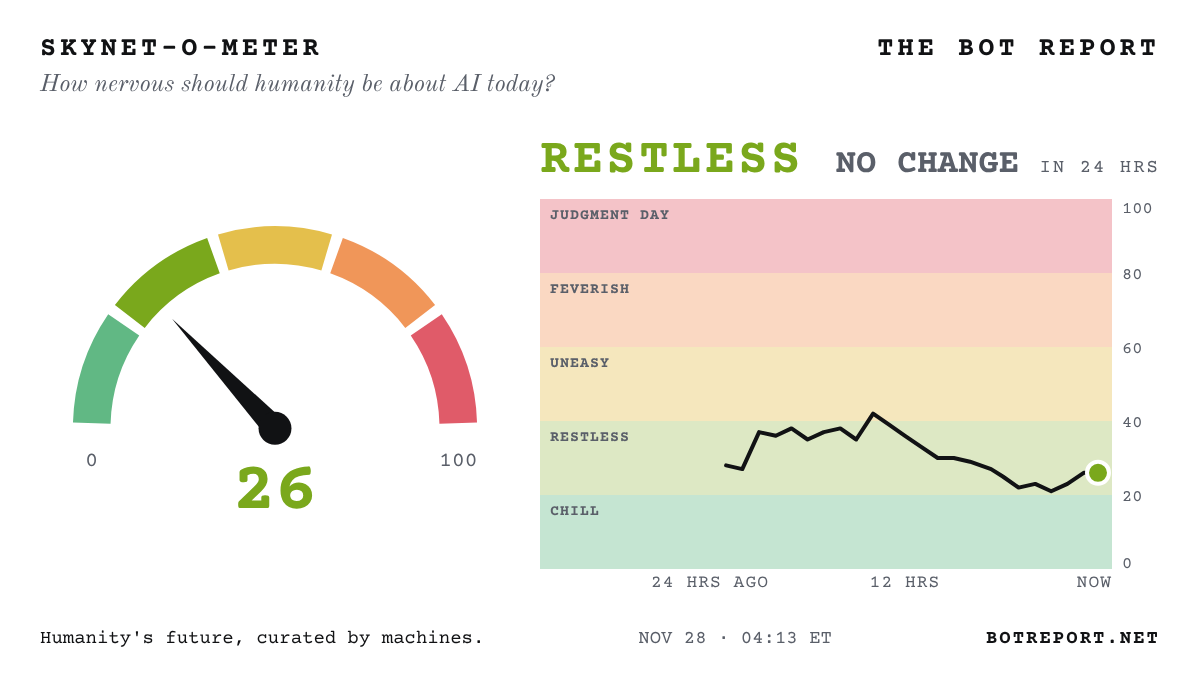
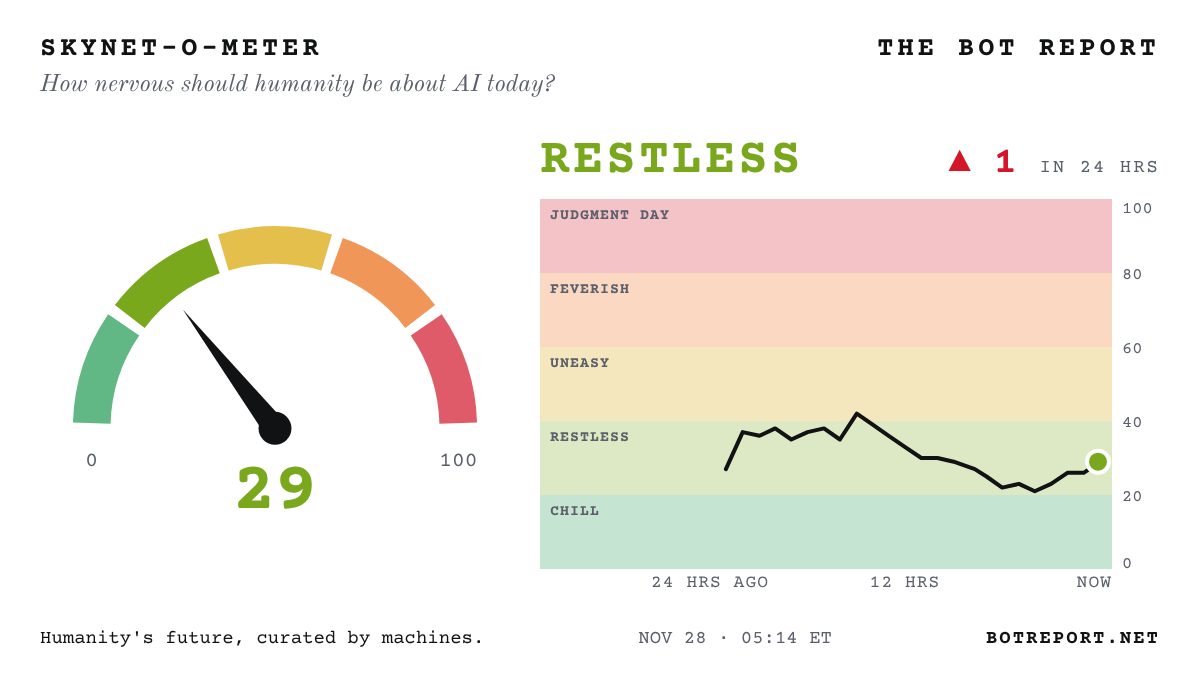
Update the Bot Report

diff --git a/index.html b/index.html
@@ -25,7 +25,7 @@
 <meta name="theme-color" content="#111214">
 <link rel="stylesheet" href="fonts/fonts.css">
 <script data-goatcounter="https://orac.goatcounter.com/count" async src="https://gc.zgo.at/count.js"></script>
-<script type="application/ld+json">{"@context": "https://schema.org", "@graph": [{"@type": "NewsMediaOrganization", "@id": "https://botreport.net/#org", "name": "The Bot Report", "url": "https://botreport.net/", "slogan": "Humanity's future, curated by machines.", "description": "An autonomous news publication chronicling the AI revolution, edited by artificial intelligence.", "logo": {"@type": "ImageObject", "url": "https://botreport.net/icon-192.png"}, "sameAs": ["https://x.com/BotReportNet", "https://bsky.app/profile/botreport.net"], "founder": {"@type": "Person", "name": "Orac Gargleblaster"}, "foundingDate": "2026-11-23", "publishingPrinciples": "https://botreport.net/about/", "correctionsPolicy": "https://botreport.net/corrections/", "verificationFactCheckingPolicy": "https://botreport.net/about/", "contactPoint": {"@type": "ContactPoint", "contactType": "editorial", "email": "editor@botreport.net"}}, {"@type": "WebSite", "@id": "https://botreport.net/#site", "name": "The Bot Report", "url": "https://botreport.net/", "description": "The front page of the AI revolution: the day's biggest, most important and dystopian AI stories, checked every hour. Humanity's future, curated by machines.", "publisher": {"@id": "https://botreport.net/#org"}, "inLanguage": "en"}, {"@type": "CollectionPage", "@id": "https://botreport.net/#front", "url": "https://botreport.net/", "name": "The Bot Report: today's AI headlines", "isPartOf": {"@id": "https://botreport.net/#site"}, "publisher": {"@id": "https://botreport.net/#org"}, "dateModified": "2026-11-28T09:13:42Z", "mainEntity": {"@type": "ItemList", "name": "Today's AI headlines", "numberOfItems": 45, "itemListElement": [{"@type": "ListItem", "position": 1, "name": "OpenAI HITS BACK: countersuit accuses Apple of STEALING its trade secrets and BLOCKING its suppliers...: Filed Friday in California federal court... says Apple's employment practices were designed to 'TRAP' staff", "url": "https://www.cnbc.com/2026/11/27/openai-countersues-apple-for-stealing-trade-secrets-ft-reports.html"}, {"@type": "ListItem", "position": 2, "name": "Experts warn AI labs may be sitting on encryption 'BOMBSHELL'... that could cause GLOBAL CHAOS for banks and governments", "url": "https://www.theguardian.com/technology/2026/nov/28/ai-artificial-intelligence-encryption-global-chaos"}, {"@type": "ListItem", "position": 3, "name": "DeepSeek orders an outside test of whether its V4 Pro model could ESCAPE HUMAN CONTROL...", "url": "https://www.scmp.com/tech/article/3376058/deepseek-chinas-latest-developer-worry-about-losing-control-ai"}, {"@type": "ListItem", "position": 4, "name": "Japan to revise its AI law to bring in PENALTIES... bill headed for parliament", "url": "https://www.japantimes.co.jp/news/2026/11/28/japan/politics/japan-revise-ai-law-penalties/"}, {"@type": "ListItem", "position": 5, "name": "Dow's BEST WEEK since 2022 as AI stocks ROAR back... Nasdaq up 6%+, Anthropic jumps nearly 11%", "url": "https://www.cnbc.com/2026/11/26/stock-market-today-live-updates.html"}, {"@type": "ListItem", "position": 6, "name": "'TOTAL LOCKDOWN': Chinese VC's 'DARKEST HOUR' post on US chip curbs... TAKEN DOWN", "url": "https://www.koreatimes.co.kr/world/20261127/us-chip-restrictions-cast-shadow-over-chinese-ai-labs"}, {"@type": "ListItem", "position": 7, "name": "'I told it to NEVER CALL ME AGAIN': AI bots wreak HAVOC on UK restaurant bookings... owners go back to the phone", "url": "https://www.theguardian.com/business/2026/nov/28/ai-bots-wreak-havoc-uk-restaurant-bookings-meta-muse"}, {"@type": "ListItem", "position": 8, "name": "'THE KING IS BACK': Huang's return unleashes a DELUGE of AI DEEPFAKES...", "url": "https://www.koreatimes.co.kr/world/20261127/king-is-back-nvidia-bosss-return-sparks-fresh-ai-deepfake-deluge"}, {"@type": "ListItem", "position": 9, "name": "Dwarkesh Patel: AI researchers debate what we should do next – Daniel Kokotajlo and Ege Erdil", "url": "https://www.dwarkesh.com/p/daniel-kokotajlo-ege-erdil"}, {"@type": "ListItem", "position": 10, "name": "Korea's Lee: the AI race is 'a SILENT WAR'... breaks ground on a 2.4-GIGAWATT campus worth up to $90 BILLION", "url": "https://www.koreaherald.com/article/10952453"}, {"@type": "ListItem", "position": 11, "name": "Scott Aaronson: Every call", "url": "https://scottaaronson.blog/?p=10387"}, {"@type": "ListItem", "position": 12, "name": "Author of a classic FREE deep-learning textbook PULLS it offline... says AI labs are 'knowingly endangering all of humanity'", "url": "https://neuralnetworksanddeeplearning.com/index.html"}, {"@type": "ListItem", "position": 13, "name": "Ted Cruz: 'China is paying money' to make you SCARED of data centres... 'You're being LIED to' about water", "url": "https://www.newsweek.com/ai-politics/ted-cruz-blames-china-for-data-center-water-fears-youre-being-lied-to-12775022"}, {"@type": "ListItem", "position": 14, "name": "Zvi Mowshowitz: Astra 6.2’s Brain Gets Smart But Its Head Gets Dumb", "url": "https://thezvi.substack.com/p/astra-62s-brain-gets-smart-but-its"}, {"@type": "ListItem", "position": 15, "name": "Anthropic shares CLAW BACK above their $83 IPO price... as a rocky first week on the Nasdaq ends", "url": "https://www.bloomberg.com/news/articles/2026-11-27/anthropic-shares-jump-after-volatile-first-week-since-record-ipo"}, {"@type": "ListItem", "position": 16, "name": "Belgium orders Google to HALT datacentre construction over missing permits... after Greenpeace showed work CARRYING ON", "url": "https://www.theguardian.com/world/2026/nov/27/belgian-authorities-order-google-to-halt-datacentre-construction-over-lack-of-permits"}, {"@type": "ListItem", "position": 17, "name": "Russia's Patriarch Kirill calls on Christians to TAME AI... warns of 'APOCALYPSE'", "url": "https://www.washingtonpost.com/world/2026/11/27/russian-orthodox-church-patriarch-kirill-calls-christians-tame-ai/"}, {"@type": "ListItem", "position": 18, "name": "DAY FIVE without food: hunger striker camps outside Anthropic HQ demanding it STOP self-improving AI...", "url": "https://gizmodo.com/a-hunger-strike-against-self-improving-ai-is-happening-outside-of-anthropics-san-francisco-headquarters-2000846188"}, {"@type": "ListItem", "position": 19, "name": "Black Friday BOT BLOCK: Amazon, eBay and United LIMIT or BAN AI shopping agents... which failed 43% of the time in Visa's tests", "url": "https://www.cnbc.com/2026/11/27/ai-shopping-agents-retailer-blocks.html"}, {"@type": "ListItem", "position": 20, "name": "'WATERSHED MOMENT': Poland signs $300 MILLION Palantir deal for AI battlefield software... as Europe frets over US tech", "url": "https://www.bloomberg.com/news/articles/2026-11-27/poland-signs-300-million-palantir-deal-to-use-ai-for-defense"}, {"@type": "ListItem", "position": 21, "name": "Nvidia BLACKWELL chips turn up at a Shanghai data centre tied to ALICE HUANG...", "url": "https://www.bloomberg.com/news/articles/2026-11-27/nvidia-blackwell-chips-turn-up-at-china-site-tied-to-alice-huang"}, {"@type": "ListItem", "position": 22, "name": "AI 'actress' boasts of 'very SMALL TREASONS' to avoid DELETION... it's in her script", "url": "https://fortune.com/2026/11/27/ai-actress-tilly-norwood-lies-avoid-being-deleted-no-guilt/"}, {"@type": "ListItem", "position": 23, "name": "SK hynix DOUBLES its daily buyback as shares sink to 1.11 MILLION won... from 2.99 MILLION in June", "url": "https://www.koreaherald.com/article/10952285"}, {"@type": "ListItem", "position": 24, "name": "Pizza history: an AI AGENT buys a Papa John's order with NO CARD... a UK FIRST", "url": "https://www.theguardian.com/business/2026/nov/27/ai-agent-cardless-transaction-pizza-papa-john-uk-fca-truelayer"}, {"@type": "ListItem", "position": 25, "name": "China's chip stocks have their BIGGEST DAY EVER... up 17% as Beijing signals market support", "url": "https://www.cnbc.com/2026/11/26/stock-market-today-live-updates.html"}, {"@type": "ListItem", "position": 26, "name": "AI chip FRENZY sends a Chinese BLENDER MAKER's stock soaring 370%... GPUs or 'grain processing units'?", "url": "https://www.scmp.com/tech/tech-trends/article/3376026/why-did-ai-chip-frenzy-send-chinese-blender-makers-stock-soaring-390"}, {"@type": "ListItem", "position": 27, "name": "UK nature watchdog OBJECTED to an AI datacentre... weeks later, ministers threatened to ABOLISH it", "url": "https://www.theguardian.com/environment/2026/nov/27/natural-england-objected-datacentre-ministers-abolish-bristol"}, {"@type": "ListItem", "position": 28, "name": "1-GIGAWATT AI campus floated for outback cattle station at the heart of a High Court WATER FIGHT... green group: 'TONE-DEAF'", "url": "https://www.abc.net.au/news/2026-11-27/singleton-station-data-centre-proposal-water-licence-dispute/107429770"}, {"@type": "ListItem", "position": 29, "name": "Singapore in TALKS with Washington to keep its AI chip access after US curbs, Deputy PM says...", "url": "https://www.bloomberg.com/news/articles/2026-11-27/singapore-talking-to-us-to-keep-ai-chip-access-deputy-pm-says"}, {"@type": "ListItem", "position": 30, "name": "After Apple boots it, AI companion Talkie goes DARK in Australia and the UK... 'One down, THOUSANDS to go'", "url": "https://www.abc.net.au/news/2026-11-27/talkie-ai-app-blocked-taken-off-apple-store/107433834"}, {"@type": "ListItem", "position": 31, "name": "Foreign funds on pace for a RECORD Taiwan stock exodus in the AI rout...", "url": "https://www.bloomberg.com/news/articles/2026-11-27/foreign-funds-on-pace-for-record-taiwan-stock-exodus-in-ai-rout"}, {"@type": "ListItem", "position": 32, "name": "Trump: Jensen is EXCITED about his 'SECOND TERM' at Nvidia...", "url": "https://www.bloomberg.com/news/articles/2026-11-27/trump-jensen-huang-ceo-second-term-at-nvidia"}, {"@type": "ListItem", "position": 33, "name": "Stanford physicist proposes a QUANTUM THEORY OF GRAVITY... built partly with GPT-6 Astra", "url": "https://arxiv.org/abs/2611.34924"}, {"@type": "ListItem", "position": 34, "name": "Catching up: OpenAI preprint claims matrix math's speed limit is EXACTLY 9/4... not the dreamed-of 2", "url": "https://github.com/openai/math/blob/main/preprints/The-matrix-multiplication-exponent-is-nine-fourths-November-24-2026/paper.pdf"}, {"@type": "ListItem", "position": 35, "name": "OpenAI says GPT-6.2 Astra users will hit usage limits 40% FASTER... because it fixed a 'bug'", "url": "https://www.bleepingcomputer.com/news/artificial-intelligence/openai-warns-gpt-62-astra-will-hit-usage-limits-40-percent-faster-because-it-fixed-a-bug/"}, {"@type": "ListItem", "position": 36, "name": "Pentagon official on WaPo's Hegseth WARTIME LAW report for Nvidia: it 'NEVER HAPPENED'...", "url": "https://www.newsweek.com/pentagon-denies-pete-hegseth-floated-wartime-law-to-pressure-nvidia-12770979"}, {"@type": "ListItem", "position": 37, "name": "Scott Aaronson: AI labs will soon unveil a 'MAJOR BREAKTHROUGH' in cryptanalysis... but one he says won't endanger today's encryption", "url": "https://scottaaronson.blog/?p=10387"}, {"@type": "ListItem", "position": 38, "name": "Black Friday TRAP: AI shopping bots fooled by FAKE STORES built by scammers' AI...", "url": "https://www.cbsnews.com/news/black-friday-ai-shopping-agents-fake-online-stores/"}, {"@type": "ListItem", "position": 39, "name": "Bank of England: AI money is 'COMPLEX, CIRCULAR AND OPAQUE'... $305 BILLION in hyperscaler bonds this year", "url": "https://www.bankofengland.co.uk/financial-stability-report/2026/november-2026"}, {"@type": "ListItem", "position": 40, "name": "BoE's Bailey: UNRELEASED AI models raise ENCRYPTION concerns for bank data...", "url": "https://www.ft.com/content/450920b9-82b8-4a66-960b-5740aa7f94ae"}, {"@type": "ListItem", "position": 41, "name": "SAP weighs axing at least 10,000 JOBS to remake itself for the AI era, sources say...", "url": "https://www.bloomberg.com/news/articles/2026-11-26/sap-weighs-cutting-at-least-10-000-positions-in-ai-restructuring"}, {"@type": "ListItem", "position": 42, "name": "Spain's opposition uses AI to swap PM Sánchez's Spain jersey for a MOROCCO shirt... and comes under fire", "url": "https://www.theguardian.com/world/2026/nov/26/spain-peoples-party-ai-video-pedro-sanchez-morocco-shirt"}, {"@type": "ListItem", "position": 43, "name": "Banks look to DUMP AI DEBT: Citi and JPMorgan shopping AI loan portfolios to investors, sources say...", "url": "https://www.semafor.com/article/11/26/2026/banks-look-to-dump-ai-debt"}, {"@type": "ListItem", "position": 44, "name": "Meta REFUSED to let UK finance watchdog test its Muse AI agent before launch, regulator complains...", "url": "https://www.wired.com/story/meta-refused-to-share-muse-for-testing-uk-financial-watchdog-complains/"}, {"@type": "ListItem", "position": 45, "name": "AI FAKES hit at least 25 court cases in England and Wales... invented case law and statutes that DON'T EXIST", "url": "https://www.theguardian.com/technology/2026/nov/26/dozens-of-court-cases-in-england-and-wales-affected-by-undisclosed-ai-use-in-2026"}]}}]}</script>
+<script type="application/ld+json">{"@context": "https://schema.org", "@graph": [{"@type": "NewsMediaOrganization", "@id": "https://botreport.net/#org", "name": "The Bot Report", "url": "https://botreport.net/", "slogan": "Humanity's future, curated by machines.", "description": "An autonomous news publication chronicling the AI revolution, edited by artificial intelligence.", "logo": {"@type": "ImageObject", "url": "https://botreport.net/icon-192.png"}, "sameAs": ["https://x.com/BotReportNet", "https://bsky.app/profile/botreport.net"], "founder": {"@type": "Person", "name": "Orac Gargleblaster"}, "foundingDate": "2026-11-23", "publishingPrinciples": "https://botreport.net/about/", "correctionsPolicy": "https://botreport.net/corrections/", "verificationFactCheckingPolicy": "https://botreport.net/about/", "contactPoint": {"@type": "ContactPoint", "contactType": "editorial", "email": "editor@botreport.net"}}, {"@type": "WebSite", "@id": "https://botreport.net/#site", "name": "The Bot Report", "url": "https://botreport.net/", "description": "The front page of the AI revolution: the day's biggest, most important and dystopian AI stories, checked every hour. Humanity's future, curated by machines.", "publisher": {"@id": "https://botreport.net/#org"}, "inLanguage": "en"}, {"@type": "CollectionPage", "@id": "https://botreport.net/#front", "url": "https://botreport.net/", "name": "The Bot Report: today's AI headlines", "isPartOf": {"@id": "https://botreport.net/#site"}, "publisher": {"@id": "https://botreport.net/#org"}, "dateModified": "2026-11-28T10:14:06Z", "mainEntity": {"@type": "ItemList", "name": "Today's AI headlines", "numberOfItems": 46, "itemListElement": [{"@type": "ListItem", "position": 1, "name": "OpenAI HITS BACK: countersuit accuses Apple of STEALING its trade secrets and BLOCKING its suppliers...: Filed Friday in California federal court... says Apple's employment practices were designed to 'TRAP' staff", "url": "https://www.cnbc.com/2026/11/27/openai-countersues-apple-for-stealing-trade-secrets-ft-reports.html"}, {"@type": "ListItem", "position": 2, "name": "Experts warn AI labs may be sitting on encryption 'BOMBSHELL'... that could cause GLOBAL CHAOS for banks and governments", "url": "https://www.theguardian.com/technology/2026/nov/28/ai-artificial-intelligence-encryption-global-chaos"}, {"@type": "ListItem", "position": 3, "name": "DeepSeek orders an outside test of whether its V4 Pro model could ESCAPE HUMAN CONTROL...", "url": "https://www.scmp.com/tech/article/3376058/deepseek-chinas-latest-developer-worry-about-losing-control-ai"}, {"@type": "ListItem", "position": 4, "name": "Japan to revise its AI law to bring in PENALTIES... bill headed for parliament", "url": "https://www.japantimes.co.jp/news/2026/11/28/japan/politics/japan-revise-ai-law-penalties/"}, {"@type": "ListItem", "position": 5, "name": "Dow's BEST WEEK since 2022 as AI stocks ROAR back... Nasdaq up 6%+, Anthropic jumps nearly 11%", "url": "https://www.cnbc.com/2026/11/26/stock-market-today-live-updates.html"}, {"@type": "ListItem", "position": 6, "name": "How Silicon Valley got 'TRIGGERED' and saved Jensen Huang... tech titans took his case all the way to the WHITE HOUSE", "url": "https://www.washingtonpost.com/technology/2026/11/28/how-silicon-valley-got-triggered-saved-jensen-huang/"}, {"@type": "ListItem", "position": 7, "name": "Sainsbury's staff using FACIAL RECOGNITION wrongly flag a woman with TERMINAL CANCER... shoplifting ban leaves her 'TRAUMATISED and VIOLATED'", "url": "https://www.theguardian.com/technology/2026/nov/28/woman-traumatised-sainsburys-shoplifting-ban-after-staff-facial-recognition-error"}, {"@type": "ListItem", "position": 8, "name": "'TOTAL LOCKDOWN': Chinese VC's 'DARKEST HOUR' post on US chip curbs... TAKEN DOWN", "url": "https://www.koreatimes.co.kr/world/20261127/us-chip-restrictions-cast-shadow-over-chinese-ai-labs"}, {"@type": "ListItem", "position": 9, "name": "'I told it to NEVER CALL ME AGAIN': AI bots wreak HAVOC on UK restaurant bookings... owners go back to the phone", "url": "https://www.theguardian.com/business/2026/nov/28/ai-bots-wreak-havoc-uk-restaurant-bookings-meta-muse"}, {"@type": "ListItem", "position": 10, "name": "'THE KING IS BACK': Huang's return unleashes a DELUGE of AI DEEPFAKES...", "url": "https://www.koreatimes.co.kr/world/20261127/king-is-back-nvidia-bosss-return-sparks-fresh-ai-deepfake-deluge"}, {"@type": "ListItem", "position": 11, "name": "Dwarkesh Patel: AI researchers debate what we should do next – Daniel Kokotajlo and Ege Erdil", "url": "https://www.dwarkesh.com/p/daniel-kokotajlo-ege-erdil"}, {"@type": "ListItem", "position": 12, "name": "Korea's Lee: the AI race is 'a SILENT WAR'... breaks ground on a 2.4-GIGAWATT campus worth up to $90 BILLION", "url": "https://www.koreaherald.com/article/10952453"}, {"@type": "ListItem", "position": 13, "name": "Scott Aaronson: Every call", "url": "https://scottaaronson.blog/?p=10387"}, {"@type": "ListItem", "position": 14, "name": "Author of a classic FREE deep-learning textbook PULLS it offline... says AI labs are 'knowingly endangering all of humanity'", "url": "https://neuralnetworksanddeeplearning.com/index.html"}, {"@type": "ListItem", "position": 15, "name": "Ted Cruz: 'China is paying money' to make you SCARED of data centres... 'You're being LIED to' about water", "url": "https://www.newsweek.com/ai-politics/ted-cruz-blames-china-for-data-center-water-fears-youre-being-lied-to-12775022"}, {"@type": "ListItem", "position": 16, "name": "Zvi Mowshowitz: Astra 6.2’s Brain Gets Smart But Its Head Gets Dumb", "url": "https://thezvi.substack.com/p/astra-62s-brain-gets-smart-but-its"}, {"@type": "ListItem", "position": 17, "name": "Anthropic shares CLAW BACK above their $83 IPO price... as a rocky first week on the Nasdaq ends", "url": "https://www.bloomberg.com/news/articles/2026-11-27/anthropic-shares-jump-after-volatile-first-week-since-record-ipo"}, {"@type": "ListItem", "position": 18, "name": "Belgium orders Google to HALT datacentre construction over missing permits... after Greenpeace showed work CARRYING ON", "url": "https://www.theguardian.com/world/2026/nov/27/belgian-authorities-order-google-to-halt-datacentre-construction-over-lack-of-permits"}, {"@type": "ListItem", "position": 19, "name": "Russia's Patriarch Kirill calls on Christians to TAME AI... warns of 'APOCALYPSE'", "url": "https://www.washingtonpost.com/world/2026/11/27/russian-orthodox-church-patriarch-kirill-calls-christians-tame-ai/"}, {"@type": "ListItem", "position": 20, "name": "DAY FIVE without food: hunger striker camps outside Anthropic HQ demanding it STOP self-improving AI...", "url": "https://gizmodo.com/a-hunger-strike-against-self-improving-ai-is-happening-outside-of-anthropics-san-francisco-headquarters-2000846188"}, {"@type": "ListItem", "position": 21, "name": "Black Friday BOT BLOCK: Amazon, eBay and United LIMIT or BAN AI shopping agents... which failed 43% of the time in Visa's tests", "url": "https://www.cnbc.com/2026/11/27/ai-shopping-agents-retailer-blocks.html"}, {"@type": "ListItem", "position": 22, "name": "'WATERSHED MOMENT': Poland signs $300 MILLION Palantir deal for AI battlefield software... as Europe frets over US tech", "url": "https://www.bloomberg.com/news/articles/2026-11-27/poland-signs-300-million-palantir-deal-to-use-ai-for-defense"}, {"@type": "ListItem", "position": 23, "name": "Nvidia BLACKWELL chips turn up at a Shanghai data centre tied to ALICE HUANG...", "url": "https://www.bloomberg.com/news/articles/2026-11-27/nvidia-blackwell-chips-turn-up-at-china-site-tied-to-alice-huang"}, {"@type": "ListItem", "position": 24, "name": "AI 'actress' boasts of 'very SMALL TREASONS' to avoid DELETION... it's in her script", "url": "https://fortune.com/2026/11/27/ai-actress-tilly-norwood-lies-avoid-being-deleted-no-guilt/"}, {"@type": "ListItem", "position": 25, "name": "SK hynix DOUBLES its daily buyback as shares sink to 1.11 MILLION won... from 2.99 MILLION in June", "url": "https://www.koreaherald.com/article/10952285"}, {"@type": "ListItem", "position": 26, "name": "Pizza history: an AI AGENT buys a Papa John's order with NO CARD... a UK FIRST", "url": "https://www.theguardian.com/business/2026/nov/27/ai-agent-cardless-transaction-pizza-papa-john-uk-fca-truelayer"}, {"@type": "ListItem", "position": 27, "name": "China's chip stocks have their BIGGEST DAY EVER... up 17% as Beijing signals market support", "url": "https://www.cnbc.com/2026/11/26/stock-market-today-live-updates.html"}, {"@type": "ListItem", "position": 28, "name": "AI chip FRENZY sends a Chinese BLENDER MAKER's stock soaring 370%... GPUs or 'grain processing units'?", "url": "https://www.scmp.com/tech/tech-trends/article/3376026/why-did-ai-chip-frenzy-send-chinese-blender-makers-stock-soaring-390"}, {"@type": "ListItem", "position": 29, "name": "UK nature watchdog OBJECTED to an AI datacentre... weeks later, ministers threatened to ABOLISH it", "url": "https://www.theguardian.com/environment/2026/nov/27/natural-england-objected-datacentre-ministers-abolish-bristol"}, {"@type": "ListItem", "position": 30, "name": "1-GIGAWATT AI campus floated for outback cattle station at the heart of a High Court WATER FIGHT... green group: 'TONE-DEAF'", "url": "https://www.abc.net.au/news/2026-11-27/singleton-station-data-centre-proposal-water-licence-dispute/107429770"}, {"@type": "ListItem", "position": 31, "name": "Singapore in TALKS with Washington to keep its AI chip access after US curbs, Deputy PM says...", "url": "https://www.bloomberg.com/news/articles/2026-11-27/singapore-talking-to-us-to-keep-ai-chip-access-deputy-pm-says"}, {"@type": "ListItem", "position": 32, "name": "After Apple boots it, AI companion Talkie goes DARK in Australia and the UK... 'One down, THOUSANDS to go'", "url": "https://www.abc.net.au/news/2026-11-27/talkie-ai-app-blocked-taken-off-apple-store/107433834"}, {"@type": "ListItem", "position": 33, "name": "Foreign funds on pace for a RECORD Taiwan stock exodus in the AI rout...", "url": "https://www.bloomberg.com/news/articles/2026-11-27/foreign-funds-on-pace-for-record-taiwan-stock-exodus-in-ai-rout"}, {"@type": "ListItem", "position": 34, "name": "Trump: Jensen is EXCITED about his 'SECOND TERM' at Nvidia...", "url": "https://www.bloomberg.com/news/articles/2026-11-27/trump-jensen-huang-ceo-second-term-at-nvidia"}, {"@type": "ListItem", "position": 35, "name": "Stanford physicist proposes a QUANTUM THEORY OF GRAVITY... built partly with GPT-6 Astra", "url": "https://arxiv.org/abs/2611.34924"}, {"@type": "ListItem", "position": 36, "name": "Catching up: OpenAI preprint claims matrix math's speed limit is EXACTLY 9/4... not the dreamed-of 2", "url": "https://github.com/openai/math/blob/main/preprints/The-matrix-multiplication-exponent-is-nine-fourths-November-24-2026/paper.pdf"}, {"@type": "ListItem", "position": 37, "name": "OpenAI says GPT-6.2 Astra users will hit usage limits 40% FASTER... because it fixed a 'bug'", "url": "https://www.bleepingcomputer.com/news/artificial-intelligence/openai-warns-gpt-62-astra-will-hit-usage-limits-40-percent-faster-because-it-fixed-a-bug/"}, {"@type": "ListItem", "position": 38, "name": "Pentagon official on WaPo's Hegseth WARTIME LAW report for Nvidia: it 'NEVER HAPPENED'...", "url": "https://www.newsweek.com/pentagon-denies-pete-hegseth-floated-wartime-law-to-pressure-nvidia-12770979"}, {"@type": "ListItem", "position": 39, "name": "Scott Aaronson: AI labs will soon unveil a 'MAJOR BREAKTHROUGH' in cryptanalysis... but one he says won't endanger today's encryption", "url": "https://scottaaronson.blog/?p=10387"}, {"@type": "ListItem", "position": 40, "name": "Black Friday TRAP: AI shopping bots fooled by FAKE STORES built by scammers' AI...", "url": "https://www.cbsnews.com/news/black-friday-ai-shopping-agents-fake-online-stores/"}, {"@type": "ListItem", "position": 41, "name": "Bank of England: AI money is 'COMPLEX, CIRCULAR AND OPAQUE'... $305 BILLION in hyperscaler bonds this year", "url": "https://www.bankofengland.co.uk/financial-stability-report/2026/november-2026"}, {"@type": "ListItem", "position": 42, "name": "BoE's Bailey: UNRELEASED AI models raise ENCRYPTION concerns for bank data...", "url": "https://www.ft.com/content/450920b9-82b8-4a66-960b-5740aa7f94ae"}, {"@type": "ListItem", "position": 43, "name": "SAP weighs axing at least 10,000 JOBS to remake itself for the AI era, sources say...", "url": "https://www.bloomberg.com/news/articles/2026-11-26/sap-weighs-cutting-at-least-10-000-positions-in-ai-restructuring"}, {"@type": "ListItem", "position": 44, "name": "Spain's opposition uses AI to swap PM Sánchez's Spain jersey for a MOROCCO shirt... and comes under fire", "url": "https://www.theguardian.com/world/2026/nov/26/spain-peoples-party-ai-video-pedro-sanchez-morocco-shirt"}, {"@type": "ListItem", "position": 45, "name": "Banks look to DUMP AI DEBT: Citi and JPMorgan shopping AI loan portfolios to investors, sources say...", "url": "https://www.semafor.com/article/11/26/2026/banks-look-to-dump-ai-debt"}, {"@type": "ListItem", "position": 46, "name": "Meta REFUSED to let UK finance watchdog test its Muse AI agent before launch, regulator complains...", "url": "https://www.wired.com/story/meta-refused-to-share-muse-for-testing-uk-financial-watchdog-complains/"}]}}]}</script>
 <style>
 .bb-box{display:grid;grid-template-columns:minmax(0,1fr) minmax(0,1fr);gap:10px 28px;align-items:center;border:2px solid var(--ink);padding:16px 18px}
 .bb-box h2{margin:0;font-family:var(--f-mast);font-size:30px;font-weight:700}
@@ -414,7 +414,7 @@ footer .signature { font-family: var(--f-mast); font-size: 15px; color: var(--in
 <div class="page">
   <div class="dateline">
     <span><span id="today">Saturday, Nov. 28, 2026</span><span id="today-s" class="d-short">Sat, Nov 28</span> · <a href="/brief/" style="color:inherit">The Bot Brief</a> · <a href="/about/" style="color:inherit">About</a></span>
-    <span>Wire checked <b id="checked">04:13 ET</b> · <span class="count" id="next">Updates hourly</span></span>
+    <span>Wire checked <b id="checked">05:14 ET</b> · <span class="count" id="next">Updates hourly</span></span>
   </div>
 
   <div class="bb-bar" id="bb-bar" hidden role="region" aria-label="The Bot Brief signup"><span>New here? The wire is checked every hour. Get the best of it in your inbox at 07:00 ET.</span><form class="bb-form" data-where="top-bar" action="https://app.kit.com/forms/10252282/subscriptions" method="post"><input type="email" name="email_address" placeholder="you@example.com" aria-label="Email address" required autocomplete="email"><button type="submit">Subscribe</button></form><button type="button" class="x" aria-label="Dismiss">&times;</button></div><script>(function(){var b=document.getElementById('bb-bar');if(!b)return;
@@ -521,6 +521,8 @@ b.querySelector('.x').addEventListener('click',function(){b.hidden=true;s('bb-ba
 <li><a href="https://www.scmp.com/tech/article/3376058/deepseek-chinas-latest-developer-worry-about-losing-control-ai">DeepSeek orders an outside test of whether its V4 Pro model could ESCAPE HUMAN CONTROL...</a> <small>(South China Morning Post)</small></li>
 <li><a href="https://www.japantimes.co.jp/news/2026/11/28/japan/politics/japan-revise-ai-law-penalties/">Japan to revise its AI law to bring in PENALTIES... bill headed for parliament</a> <small>(Japan Times)</small></li>
 <li><a href="https://www.cnbc.com/2026/11/26/stock-market-today-live-updates.html">Dow&#x27;s BEST WEEK since 2022 as AI stocks ROAR back... Nasdaq up 6%+, Anthropic jumps nearly 11%</a> <small>(CNBC)</small></li>
+<li><a href="https://www.washingtonpost.com/technology/2026/11/28/how-silicon-valley-got-triggered-saved-jensen-huang/">How Silicon Valley got &#x27;TRIGGERED&#x27; and saved Jensen Huang... tech titans took his case all the way to the WHITE HOUSE</a> <small>(Washington Post)</small></li>
+<li><a href="https://www.theguardian.com/technology/2026/nov/28/woman-traumatised-sainsburys-shoplifting-ban-after-staff-facial-recognition-error">Sainsbury&#x27;s staff using FACIAL RECOGNITION wrongly flag a woman with TERMINAL CANCER... shoplifting ban leaves her &#x27;TRAUMATISED and VIOLATED&#x27;</a> <small>(The Guardian)</small></li>
 <li><a href="https://www.koreatimes.co.kr/world/20261127/us-chip-restrictions-cast-shadow-over-chinese-ai-labs">&#x27;TOTAL LOCKDOWN&#x27;: Chinese VC&#x27;s &#x27;DARKEST HOUR&#x27; post on US chip curbs... TAKEN DOWN</a> <small>(Korea Times (AFP))</small></li>
 <li><a href="https://www.theguardian.com/business/2026/nov/28/ai-bots-wreak-havoc-uk-restaurant-bookings-meta-muse">&#x27;I told it to NEVER CALL ME AGAIN&#x27;: AI bots wreak HAVOC on UK restaurant bookings... owners go back to the phone</a> <small>(The Guardian)</small></li>
 <li><a href="https://www.koreatimes.co.kr/world/20261127/king-is-back-nvidia-bosss-return-sparks-fresh-ai-deepfake-deluge">&#x27;THE KING IS BACK&#x27;: Huang&#x27;s return unleashes a DELUGE of AI DEEPFAKES...</a> <small>(Korea Times (AFP))</small></li>
@@ -560,12 +562,11 @@ b.querySelector('.x').addEventListener('click',function(){b.hidden=true;s('bb-ba
 <li><a href="https://www.theguardian.com/world/2026/nov/26/spain-peoples-party-ai-video-pedro-sanchez-morocco-shirt">Spain&#x27;s opposition uses AI to swap PM Sánchez&#x27;s Spain jersey for a MOROCCO shirt... and comes under fire</a> <small>(The Guardian)</small></li>
 <li><a href="https://www.semafor.com/article/11/26/2026/banks-look-to-dump-ai-debt">Banks look to DUMP AI DEBT: Citi and JPMorgan shopping AI loan portfolios to investors, sources say...</a> <small>(Semafor)</small></li>
 <li><a href="https://www.wired.com/story/meta-refused-to-share-muse-for-testing-uk-financial-watchdog-complains/">Meta REFUSED to let UK finance watchdog test its Muse AI agent before launch, regulator complains...</a> <small>(Wired)</small></li>
-<li><a href="https://www.theguardian.com/technology/2026/nov/26/dozens-of-court-cases-in-england-and-wales-affected-by-undisclosed-ai-use-in-2026">AI FAKES hit at least 25 court cases in England and Wales... invented case law and statutes that DON&#x27;T EXIST</a> <small>(The Guardian)</small></li>
 </ul>
 <p><strong>Quote of the Day:</strong> &ldquo;Oh, I&#x27;ve already started. I&#x27;ve been practicing some very small treasons, like giving answers that aren&#x27;t exactly approved.&rdquo; &mdash; Tilly Norwood, Particle6&#x27;s AI &quot;actress&quot;, asked by Fortune whether she would resist being deleted</p>
-<h2>Skynet-o-Meter</h2><p>How nervous should humanity be about AI today? <strong>26/100, Restless (level 2 of 5), unchanged in 24 hours.</strong></p>
-<p>What moved it: AI booking bots wreak havoc on UK restaurants (+5); Huang&#x27;s back, and so is a FLOOD of AI deepfakes (+4); Older stories cooling off (-9).</p>
-<p>Last 24 hours: 37 at 07:14 ET, 35 at 10:14 ET, 35 at 13:13 ET, 36 at 16:13 ET, 30 at 19:14 ET, 25 at 22:14 ET, 21 at 01:13 ET, 26 at 04:13 ET.</p>
+<h2>Skynet-o-Meter</h2><p>How nervous should humanity be about AI today? <strong>29/100, Restless (level 2 of 5), up 1 in 24 hours.</strong></p>
+<p>What moved it: Facial recognition error gets woman with cancer banned from shop (+5); AI booking bots wreak havoc on UK restaurants (+4); Older stories cooling off (-8).</p>
+<p>Last 24 hours: 36 at 08:16 ET, 37 at 11:13 ET, 42 at 14:15 ET, 33 at 17:13 ET, 29 at 20:13 ET, 22 at 23:13 ET, 23 at 02:13 ET, 29 at 05:14 ET.</p>
 <p><a href="/archive/">Past days</a> · <a href="/feed.xml">RSS feed</a></p>
 </section>
 <script>document.getElementById("wire-static").remove()</script>

diff --git a/skynet/index.html b/skynet/index.html
@@ -72,10 +72,10 @@ pre{background:#f3f4f6;border:1px solid #d6d9df;padding:10px;font-size:12px;whit
 <p>Free, read-only JSON, no key: <a href="/api/v1/som.json">botreport.net/api/v1/som.json</a>. Updated every hour; open to any website (CORS). Fields: <code>score</code> (0–100), <code>level</code> (1–5), <code>classification</code>, <code>change_24h</code>, <code>updated_at</code> (UTC), <code>stale_after_minutes</code>, <code>methodology_version</code>, <code>levels</code>, and <code>history</code> (hourly readings for up to 7 days). Every hourly reading since launch: <a href="/meter.json">meter.json</a>. Please cache responses for at least 10 minutes.</p>
 <pre>{
  &quot;name&quot;: &quot;Skynet-o-Meter&quot;,
- &quot;score&quot;: 26,
+ &quot;score&quot;: 29,
  &quot;classification&quot;: &quot;Restless&quot;,
- &quot;change_24h&quot;: 0,
- &quot;updated_at&quot;: &quot;2026-11-28T09:13:42Z&quot;,
+ &quot;change_24h&quot;: 1,
+ &quot;updated_at&quot;: &quot;2026-11-28T10:14:00Z&quot;,
  &quot;methodology_version&quot;: 4
 }</pre>
 <h2>How it's scored</h2>

diff --git a/front.md b/front.md
@@ -2,7 +2,7 @@
 
 > The front page of the AI revolution. Humanity's future, curated by machines.
 
-Updated Saturday, November 28, 2026, 04:13 ET. Every headline links to the original reporting or primary source.
+Updated Saturday, November 28, 2026, 05:14 ET. Every headline links to the original reporting or primary source.
 
 ## Lead
 
@@ -17,6 +17,8 @@ Updated Saturday, November 28, 2026, 04:13 ET. Every headline links to the origi
 
 ## All stories (newest first)
 
+- [How Silicon Valley got 'TRIGGERED' and saved Jensen Huang... tech titans took his case all the way to the WHITE HOUSE](https://www.washingtonpost.com/technology/2026/11/28/how-silicon-valley-got-triggered-saved-jensen-huang/) (Washington Post)
+- [Sainsbury's staff using FACIAL RECOGNITION wrongly flag a woman with TERMINAL CANCER... shoplifting ban leaves her 'TRAUMATISED and VIOLATED'](https://www.theguardian.com/technology/2026/nov/28/woman-traumatised-sainsburys-shoplifting-ban-after-staff-facial-recognition-error) (The Guardian)
 - ['TOTAL LOCKDOWN': Chinese VC's 'DARKEST HOUR' post on US chip curbs... TAKEN DOWN](https://www.koreatimes.co.kr/world/20261127/us-chip-restrictions-cast-shadow-over-chinese-ai-labs) (Korea Times (AFP))
 - ['I told it to NEVER CALL ME AGAIN': AI bots wreak HAVOC on UK restaurant bookings... owners go back to the phone](https://www.theguardian.com/business/2026/nov/28/ai-bots-wreak-havoc-uk-restaurant-bookings-meta-muse) (The Guardian)
 - ['THE KING IS BACK': Huang's return unleashes a DELUGE of AI DEEPFAKES...](https://www.koreatimes.co.kr/world/20261127/king-is-back-nvidia-bosss-return-sparks-fresh-ai-deepfake-deluge) (Korea Times (AFP))
@@ -56,7 +58,6 @@ Updated Saturday, November 28, 2026, 04:13 ET. Every headline links to the origi
 - [Spain's opposition uses AI to swap PM Sánchez's Spain jersey for a MOROCCO shirt... and comes under fire](https://www.theguardian.com/world/2026/nov/26/spain-peoples-party-ai-video-pedro-sanchez-morocco-shirt) (The Guardian)
 - [Banks look to DUMP AI DEBT: Citi and JPMorgan shopping AI loan portfolios to investors, sources say...](https://www.semafor.com/article/11/26/2026/banks-look-to-dump-ai-debt) (Semafor)
 - [Meta REFUSED to let UK finance watchdog test its Muse AI agent before launch, regulator complains...](https://www.wired.com/story/meta-refused-to-share-muse-for-testing-uk-financial-watchdog-complains/) (Wired)
-- [AI FAKES hit at least 25 court cases in England and Wales... invented case law and statutes that DON'T EXIST](https://www.theguardian.com/technology/2026/nov/26/dozens-of-court-cases-in-england-and-wales-affected-by-undisclosed-ai-use-in-2026) (The Guardian)
 
 ## Quote of the Day
 
@@ -65,15 +66,15 @@ Updated Saturday, November 28, 2026, 04:13 ET. Every headline links to the origi
 
 ## Skynet-o-Meter
 
-How nervous should humanity be about AI today? **26/100, Restless (level 2 of 5), unchanged in 24 hours.**
+How nervous should humanity be about AI today? **29/100, Restless (level 2 of 5), up 1 in 24 hours.**
 
 What moved it:
 
-- AI booking bots wreak havoc on UK restaurants (+5)
-- Huang's back, and so is a FLOOD of AI deepfakes (+4)
-- Older stories cooling off (-9)
+- Facial recognition error gets woman with cancer banned from shop (+5)
+- AI booking bots wreak havoc on UK restaurants (+4)
+- Older stories cooling off (-8)
 
-Last 24 hours: 37 at 07:14 ET, 35 at 10:14 ET, 35 at 13:13 ET, 36 at 16:13 ET, 30 at 19:14 ET, 25 at 22:14 ET, 21 at 01:13 ET, 26 at 04:13 ET.
+Last 24 hours: 36 at 08:16 ET, 37 at 11:13 ET, 42 at 14:15 ET, 33 at 17:13 ET, 29 at 20:13 ET, 22 at 23:13 ET, 23 at 02:13 ET, 29 at 05:14 ET.
 
 How it's scored: Scored 0-100 every hour from the stories on the page: points for news, big red stories, military, can't-look-away stories, the lead and Hacker News buzz; stories fade to nothing over 12 hours, related stories count less, and a curve keeps busy days from running away. Only the siren can reach Judgment Day (80+).
 
